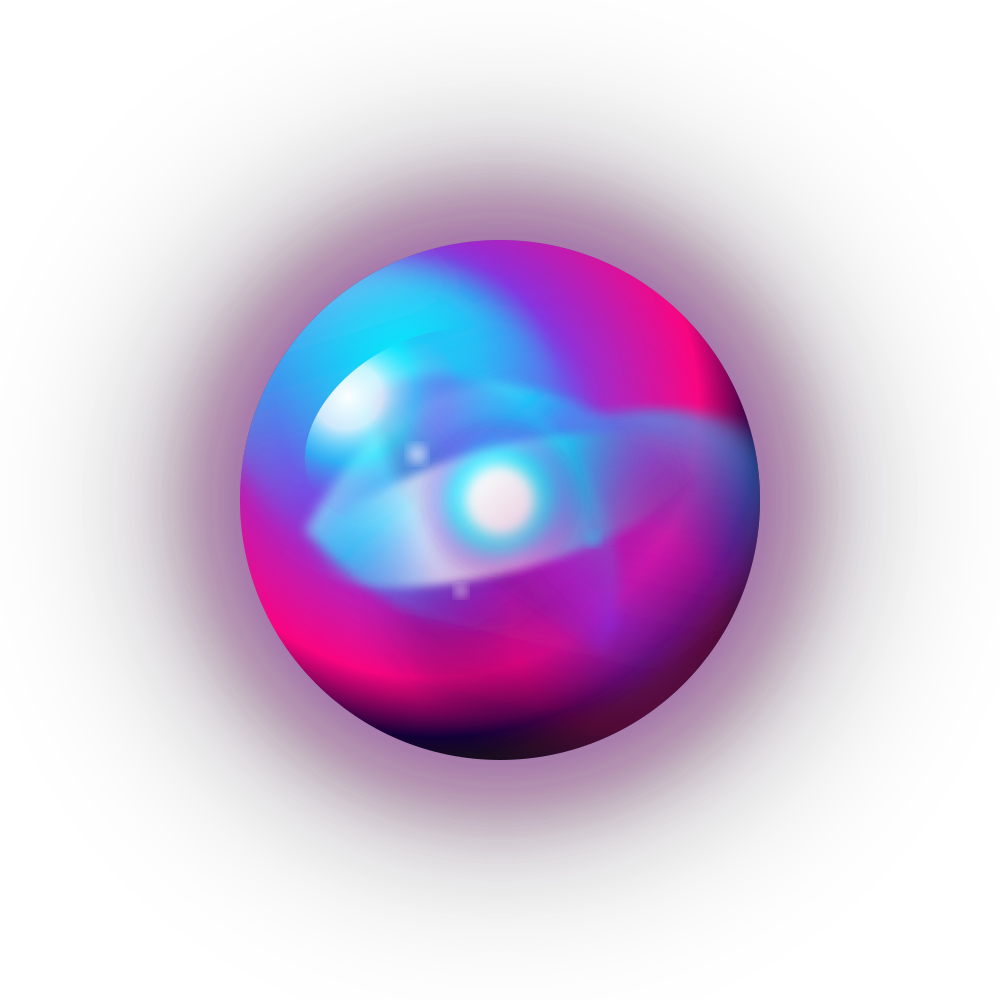
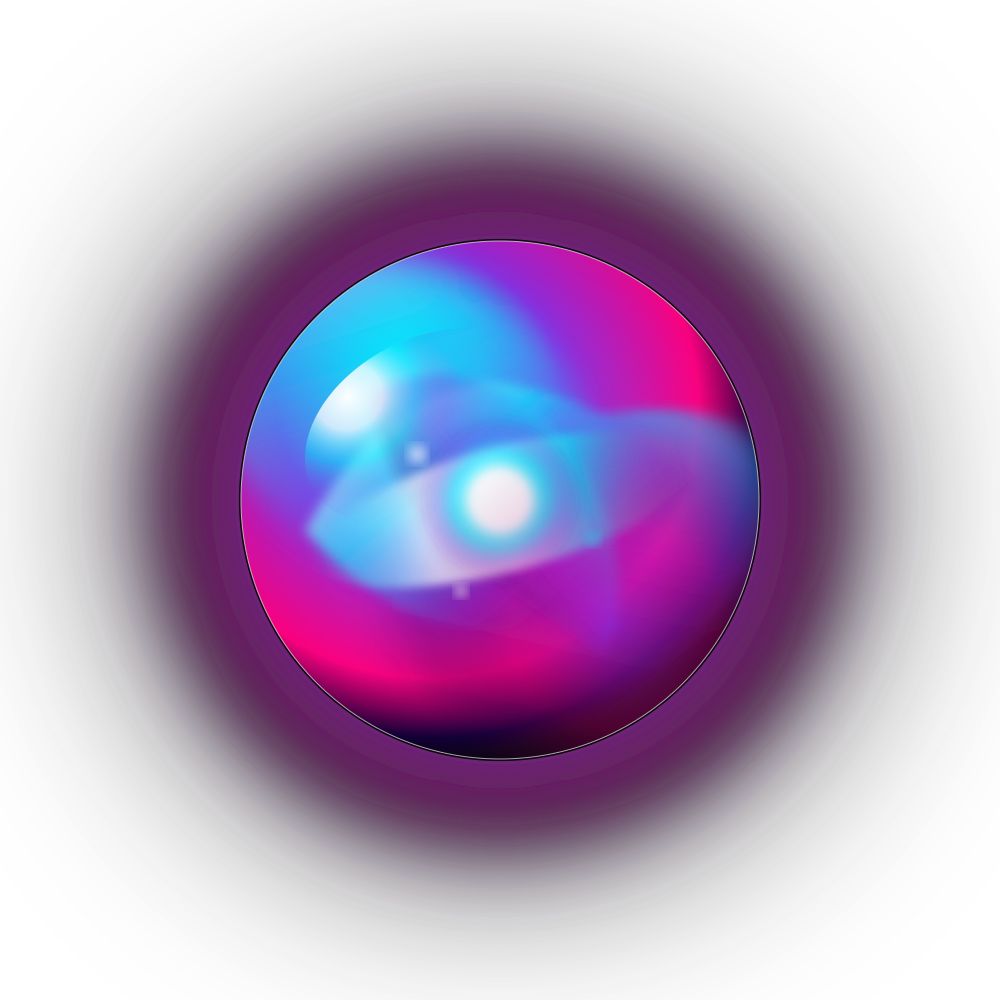
feat(orb): add background occlusion and grading
Introduce a 'cosmic' background style with radial occlusion and color grading to improve visual contrast for the speaking orb on bright stock footage. Update the CLI to allow previewing different background styles.

diff --git a/video/orb.py b/video/orb.py
@@ -228,6 +228,10 @@ def generate_gradient_orb_svg(
     svg_content = f"""<svg width="{canvas_size}" height="{canvas_size}" viewBox="0 0 {canvas_size} {canvas_size}" xmlns="http://www.w3.org/2000/svg">
   <defs>
     <!-- Multi-stage Gaussian Blur filters for radiant volumetric diffusion -->
+    <filter id="backdropGlow" x="-80%" y="-80%" width="260%" height="260%">
+      <feGaussianBlur stdDeviation="90" result="darkBlur" />
+    </filter>
+
     <filter id="ultraAura" x="-60%" y="-60%" width="220%" height="220%">
       <feGaussianBlur stdDeviation="70" result="blur1" />
     </filter>
@@ -251,6 +255,15 @@ def generate_gradient_orb_svg(
     <clipPath id="coreClip">
       <circle cx="{c}" cy="{c}" r="{r_sphere}" />
     </clipPath>
+
+    <!-- Stage 0: Deep Space Radial Backdrop Occlusion (Dimming Lens for busy/daylight stock footage) -->
+    <radialGradient id="backdropOcclusion" cx="50%" cy="50%" r="50%">
+      <stop offset="0%" stop-color="#010006" stop-opacity="0.94" />
+      <stop offset="28%" stop-color="#03010f" stop-opacity="0.84" />
+      <stop offset="55%" stop-color="#070318" stop-opacity="0.55" />
+      <stop offset="78%" stop-color="#0c0722" stop-opacity="0.22" />
+      <stop offset="100%" stop-color="#000000" stop-opacity="0.0" />
+    </radialGradient>
 
     <!-- Layer 0: Ultra-wide diffused atmospheric radiance -->
     <radialGradient id="outerRadiance" cx="50%" cy="50%" r="50%">
@@ -331,6 +344,10 @@ def generate_gradient_orb_svg(
     </radialGradient>
   </defs>
 
+  <!-- Stage 0: Deep Space Radial Backdrop Occlusion (Creates instant contrast on any stock video) -->
+  <circle cx="{c}" cy="{c}" r="{int(r_aura * 1.08)}" fill="url(#backdropOcclusion)" filter="url(#backdropGlow)" opacity="0.95" />
+  <circle cx="{c}" cy="{c}" r="{int(r_sphere * 1.32)}" fill="#010006" filter="url(#softCorona)" opacity="0.80" />
+
   <!-- Stage 1: Ultra-Wide Diffused Atmospheric Radiance (Environmental Illumination) -->
   <circle cx="{c}" cy="{c}" r="{r_aura}" fill="url(#outerRadiance)" filter="url(#ultraAura)" />
   <circle cx="{c}" cy="{c}" r="{int(r_aura * 0.85)}" fill="url(#outerRadiance)" filter="url(#softCorona)" opacity="0.95" />
@@ -370,6 +387,10 @@ def generate_gradient_orb_svg(
 
   <!-- Stage 6: Fixed 3D Glass Specular Crown (Anchored Top-Left Reflection) -->
   <ellipse cx="{int(c - r_sphere * 0.28)}" cy="{int(c - r_sphere * 0.28)}" rx="{r_specular}" ry="{int(r_specular * 0.68)}" fill="url(#specularGleam)" transform="rotate(-28 {int(c - r_sphere * 0.28)} {int(c - r_sphere * 0.28)})" />
+
+  <!-- Stage 7: Crisp Edge Separation & Refraction Rim -->
+  <circle cx="{c}" cy="{c}" r="{r_sphere}" fill="none" stroke="#000000" stroke-width="2.2" opacity="0.85" />
+  <circle cx="{c}" cy="{c}" r="{r_sphere - 1}" fill="none" stroke="{palette['core_highlight']}" stroke-width="1.0" opacity="0.65" />
 </svg>"""
 
     if not save_path:
@@ -788,13 +809,26 @@ def render_orb_test_preview(
     )
     x_coord, y_coord = mgr.get_overlay_coordinates(width, height)
 
-    # Background color: subtle dark space gradient simulation with lavfi color
-    bg_color = "0x0b0e14" if bg_style == "cosmic" else "0x000000"
+    # Background input setup: supports bright/daylight stock simulation, city, nature, or deep space
+    if bg_style == "bright":
+        # Simulates bright, high-key daylight footage (sky + sunny urban tones)
+        bg_input = f"color=c=0xd8e8f5:s={width}x{height}:r=30:d={duration}"
+    elif bg_style == "nature":
+        # Simulates green forest / outdoor sunny nature stock footage
+        bg_input = f"color=c=0x2d4a3e:s={width}x{height}:r=30:d={duration}"
+    elif bg_style == "city":
+        # Simulates warm evening city lights / architecture stock
+        bg_input = f"color=c=0x40302b:s={width}x{height}:r=30:d={duration}"
+    elif bg_style == "cosmic":
+        bg_input = f"color=c=0x0b0e14:s={width}x{height}:r=30:d={duration}"
+    else:
+        bg_input = f"color=c=0x000000:s={width}x{height}:r=30:d={duration}"
 
     # Filter complex with timer / label overlay so user sees live animation specs
     filter_complex = [
         orb_filter,
-        f"[0:v][orb_layer]overlay=eval=frame:x='{x_coord}':y='{y_coord}':shortest=1[v_orb]",
+        f"[0:v]eq=brightness=-0.03:contrast=1.06:saturation=1.04[bg_graded]",
+        f"[bg_graded][orb_layer]overlay=eval=frame:x='{x_coord}':y='{y_coord}':shortest=1[v_orb]",
         f"[v_orb]drawtext=text='LIVING ORB TESTER \\: {palette.upper()} ({animation.upper()})':fontcolor=white:fontsize=36:box=1:boxcolor=black@0.65:boxborderw=12:x=(w-text_w)/2:y=180[vout]"
     ]
     filter_str = ";".join(filter_complex)
@@ -809,7 +843,7 @@ def render_orb_test_preview(
 
     cmd = [
         "ffmpeg", "-y",
-        "-f", "lavfi", "-i", f"color=c={bg_color}:s={width}x{height}:r=30:d={duration}",
+        "-f", "lavfi", "-i", bg_input,
         "-loop", "1", "-i", str(orb_asset),
         *audio_input_args,
         "-filter_complex", filter_str,
@@ -828,10 +862,10 @@ def render_orb_test_preview(
         subprocess.run(cmd, check=True, stdout=subprocess.PIPE, stderr=subprocess.PIPE)
     except subprocess.CalledProcessError:
         # Fallback if drawtext fails (e.g. missing font)
-        fallback_filter = f"{orb_filter};[0:v][orb_layer]overlay=eval=frame:x='{x_coord}':y='{y_coord}':shortest=1[vout]"
+        fallback_filter = f"{orb_filter};[0:v]eq=brightness=-0.03:contrast=1.06:saturation=1.04[bg_graded];[bg_graded][orb_layer]overlay=eval=frame:x='{x_coord}':y='{y_coord}':shortest=1[vout]"
         cmd_fallback = [
             "ffmpeg", "-y",
-            "-f", "lavfi", "-i", f"color=c={bg_color}:s={width}x{height}:r=30:d={duration}",
+            "-f", "lavfi", "-i", bg_input,
             "-loop", "1", "-i", str(orb_asset),
             *audio_input_args,
             "-filter_complex", fallback_filter,

diff --git a/video/render.py b/video/render.py
@@ -583,7 +583,11 @@ class VideoRenderer:
                 fps=self.fps
             )
             x_coord, y_coord = orb_mgr.get_overlay_coordinates(self.width, self.height)
-            filter_complex.append(f"{orb_filter_chain};[0:v][orb_layer]overlay=eval=frame:x='{x_coord}':y='{y_coord}':format=auto:shortest=1[v_orb]")
+            filter_complex.append(
+                f"{orb_filter_chain};"
+                f"[0:v]eq=brightness=-0.03:contrast=1.06:saturation=1.04[bg_graded];"
+                f"[bg_graded][orb_layer]overlay=eval=frame:x='{x_coord}':y='{y_coord}':format=auto:shortest=1[v_orb]"
+            )
             video_source = "[v_orb]"
             print(f"  🔮 Animated Gradient Orb active (Palette: '{palette}', Position: '{position}', Style: '{animation}', Size: '{size}')")
 

diff --git a/utils/cli.py b/utils/cli.py
@@ -526,6 +526,13 @@ def parse_args() -> argparse.Namespace:
         default=None,
         help="Path to an optional custom voice audio file to test the audio-reactive speaking orb"
     )
+    parser.add_argument(
+        "--test-orb-bg",
+        type=str,
+        default="bright",
+        choices=["bright", "cosmic", "nature", "city", "dark"],
+        help="Background style to preview the Orb against: 'bright' (simulates bright/daylight stock footage), 'cosmic' (deep space), 'nature' (green scenery), or 'dark' (default: 'bright')"
+    )
 
     # Custom Script Option (Pre-edited scenes JSON)
     parser.add_argument(

diff --git a/main.py b/main.py
@@ -87,6 +87,7 @@ def main():
             width=fmt_cfg["width"],
             height=fmt_cfg["height"],
             sample_audio=sample_audio_path,
+            bg_style=getattr(args, "test_orb_bg", "bright"),
         )
         return
 
